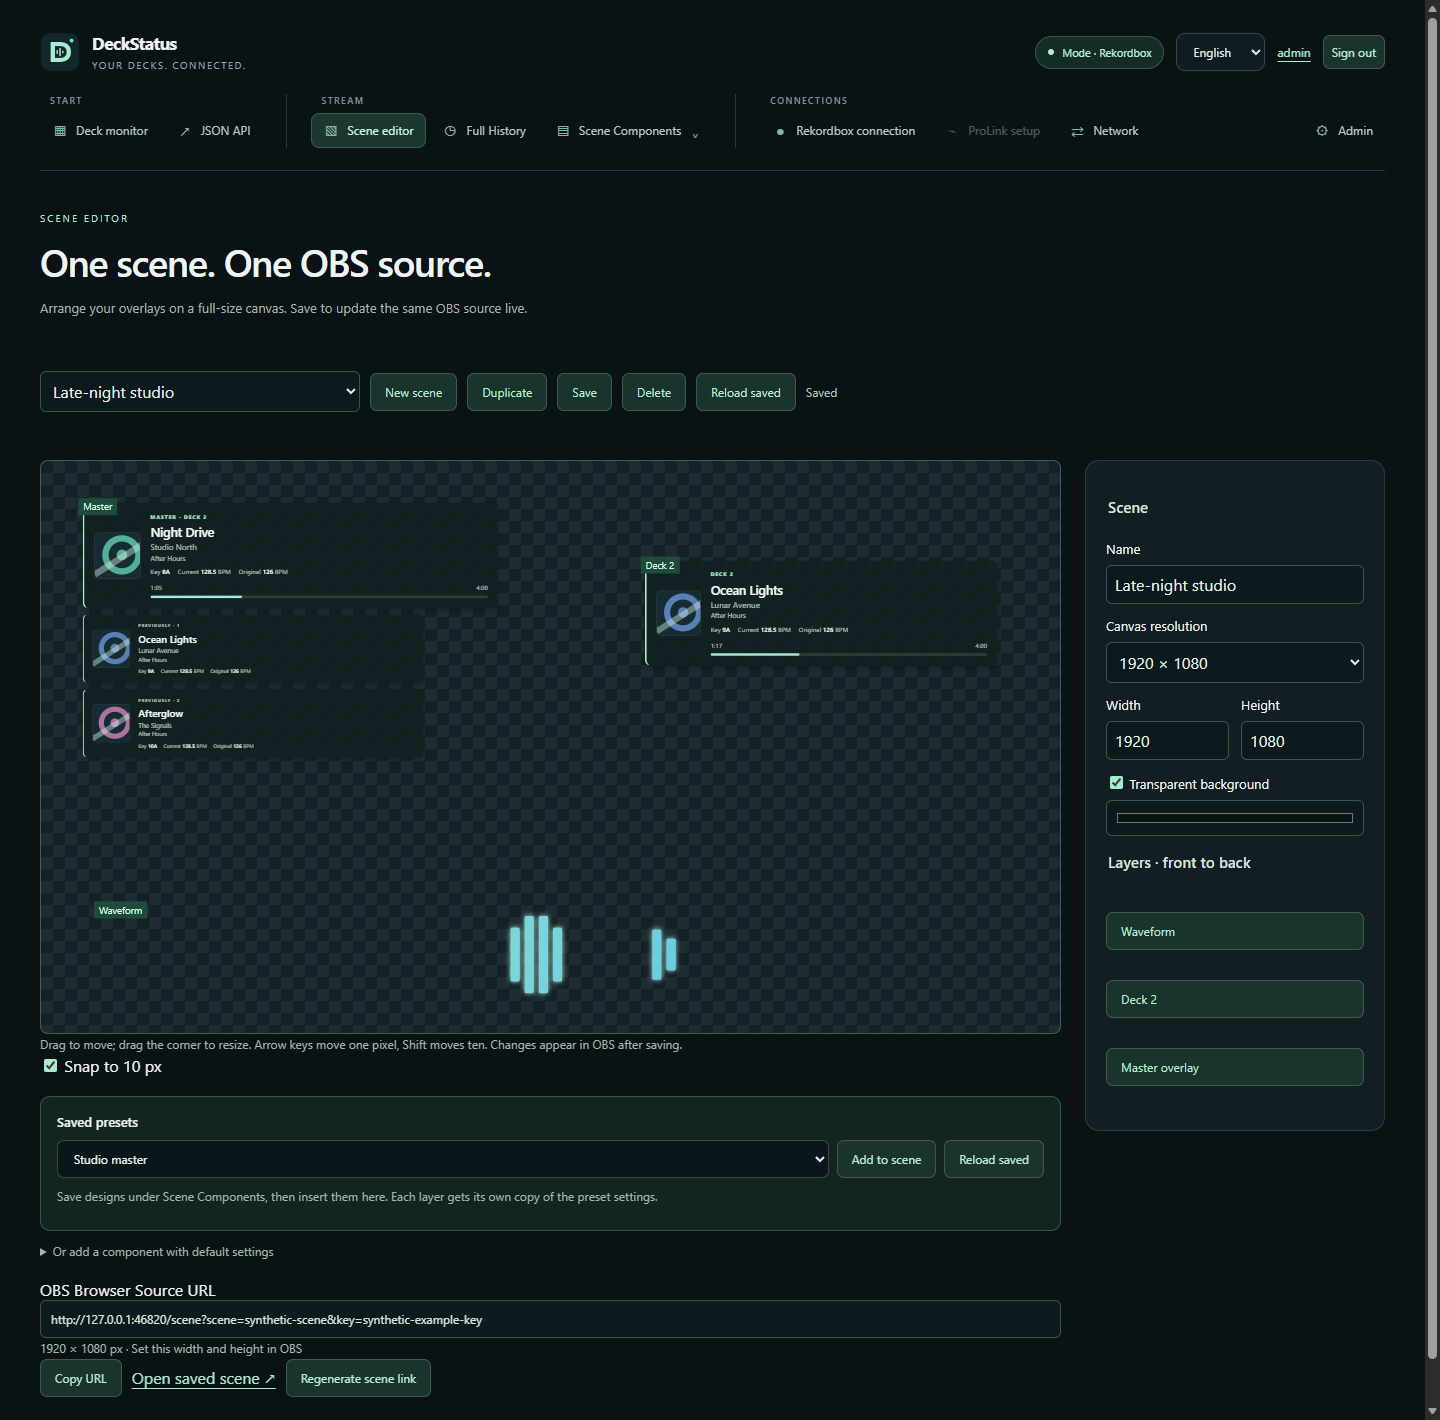
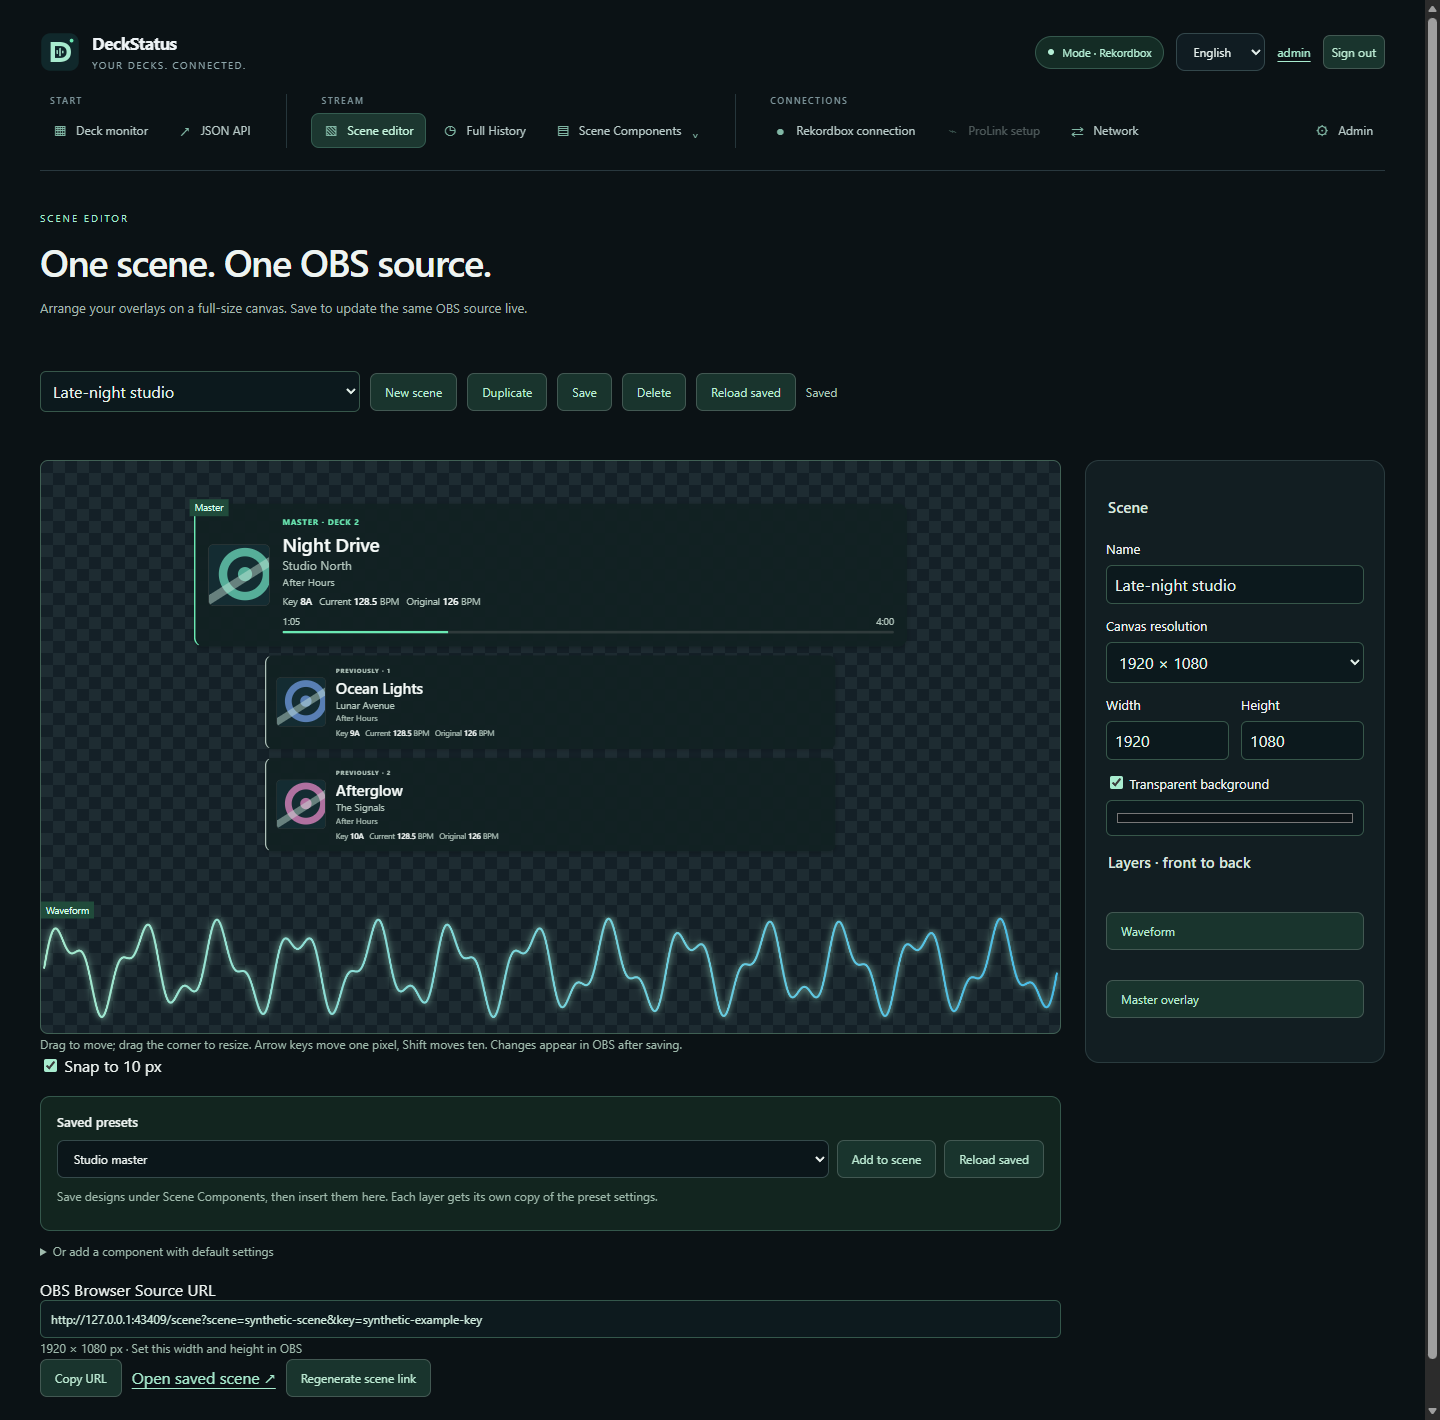
Refresh README branding and master-waveform scene preview

diff --git a/README.md b/README.md
@@ -1,10 +1,27 @@
-# DeckStatus
+<p align="center">
+  <img src="docs/images/deckstatus-icon.png" width="96" height="96" alt="DeckStatus logo">
+</p>
 
-Live DJ metadata, audience ratings and configurable OBS overlays for Windows.
+<h1 align="center">DeckStatus</h1>
 
-**Compatibility:** live-tested only with the author's **Rekordbox 7.2.18.0 Windows x64 installation**. ProLink support for CDJ-3000 / DJM-A9 is experimental and has not been tested on real hardware.
+<p align="center">Live DJ metadata, audience ratings and configurable OBS overlays for Windows.</p>
 
-## Run
+<p align="center">
+  <a href="https://github.com/spartokos99/DeckStatus/releases/latest"><img src="https://img.shields.io/github/v/release/spartokos99/DeckStatus?style=flat-square&amp;color=6ae9b3" alt="Latest GitHub release"></a>
+  <img src="https://img.shields.io/badge/platform-Windows%20x64-0078d4?style=flat-square" alt="Platform: Windows x64">
+  <img src="https://img.shields.io/badge/OBS-Browser%20Source-8b5cf6?style=flat-square" alt="OBS Browser Source">
+  <img src="https://img.shields.io/badge/languages-EN%20%7C%20DE-f2b84b?style=flat-square" alt="Languages: English and German">
+</p>
+
+<p align="center">
+  <a href="https://github.com/spartokos99/DeckStatus/releases/latest">📦 Download</a> ·
+  <a href="docs/WIKI.md">📖 Technical guide</a> ·
+  <a href="CHANGELOG.md">📝 Changelog</a>
+</p>
+
+**🧪 Compatibility:** live-tested only with the author's **Rekordbox 7.2.18.0 Windows x64 installation**. ProLink support for CDJ-3000 / DJM-A9 is experimental and has not been tested on real hardware.
+
+## ▶ Run
 
 1. Extract the full Windows ZIP into a writable folder. Keep the EXE, DLL, `web` and `prolink` together.
 2. Start Rekordbox, then run **DeckStatus.exe**. For ProLink, use **Start-ProLink.cmd**.
@@ -16,20 +33,31 @@ Stop with **Ctrl+C**. Use `DeckStatus.exe --demo` to explore synthetic tracks wi
 
 Download the complete Windows package from [DeckStatus v2.0.1](https://github.com/spartokos99/DeckStatus/releases/tag/v2.0.1). When upgrading from v1.4.0, generate new OBS URLs after signing in: overlays now require a read-only key. See the [upgrade notes](CHANGELOG.md#upgrade).
 
-## Features
+## ✨ Features
 
-- **Four-deck dashboard:** title, artist, album, key, cover, current/original BPM and timelines.
-- **OBS overlays:** individual decks, current master with adjustable history, and six audio waveform styles. Customise fields, colours, fonts, dimensions, alignment and smooth transitions.
-- **Saved presets:** save, load, update and delete named deck, master and waveform designs. The library persists on the server and is shared with signed-in users.
-- **Scene editor:** insert saved presets on a monitor-sized canvas. Drag, resize, reorder and style independent layers; save to update the same OBS source.
-- **Public Full History:** viewers browse played MASTER tracks at `/history` and rate them from 1–5 stars without an account.
-- **Persistent ratings:** the admin panel shows averages, vote counts and star distributions across sessions.
-- **Accounts:** administrator/operator roles, user management and required initial password changes.
-- **Optional LAN access**, JSON API, Rekordbox/ProLink modes and English/German application translations.
+- 🎛 **Four-deck dashboard:** title, artist, album, key, cover, current/original BPM and timelines.
+- 🎨 **OBS overlays:** individual decks, current master with adjustable history, and six audio waveform styles. Customise fields, colours, fonts, dimensions, alignment and smooth transitions.
+- 💾 **Saved presets:** save, load, update and delete named deck, master and waveform designs. The library persists on the server and is shared with signed-in users.
+- 🧩 **Scene editor:** insert saved presets on a monitor-sized canvas. Drag, resize, reorder and style independent layers; save to update the same OBS source.
+- 🎶 **Public Full History:** viewers browse played MASTER tracks at `/history` and rate them from 1–5 stars without an account.
+- ⭐ **Persistent ratings:** the admin panel shows averages, vote counts and star distributions across sessions.
+- 🔐 **Accounts:** administrator/operator roles, user management and required initial password changes.
+- 🌐 **Optional LAN access**, JSON API, Rekordbox/ProLink modes and English/German application translations.
 
-![Scene editor with synthetic demo tracks](docs/images/scene-editor-en.png)
+![Scene editor with one master overlay and a waveform spanning the full scene width](docs/images/scene-editor-en.png)
 
-## Sharing and storage
+*One master overlay and one full-width waveform on a 1920 × 1080 canvas. English UI with synthetic demo tracks.*
+
+<details>
+<summary>🎨 Explore a few overlay styles</summary>
+
+![Midnight, Light and Minimal overlay styles with English demo tracks](docs/images/deckstatus-styles-en.png)
+
+Start with a built-in style, customise it and save it as your own preset.
+
+</details>
+
+## 🔗 Sharing and storage
 
 Dashboard and configuration pages require sign-in. Full History is public. Generated OBS URLs contain revocable read-only keys; keep these links private.
 
@@ -39,7 +67,7 @@ Ratings allow one changeable vote per browser and track. This is lightweight aud
 
 The server initially accepts localhost connections only. Enable LAN access under **Connections → Network** and restart. HTTP is not encrypted: use a trusted network and do not expose the server directly to the internet.
 
-## Build and test
+## 🛠 Build and test
 
 Requires Windows x64, Visual Studio C++ tools, CMake and JDK 21+ for ProLink.
 
